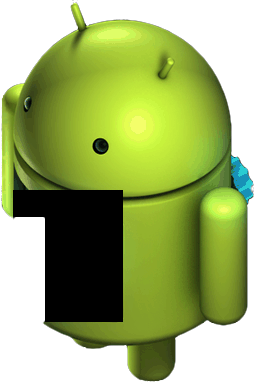
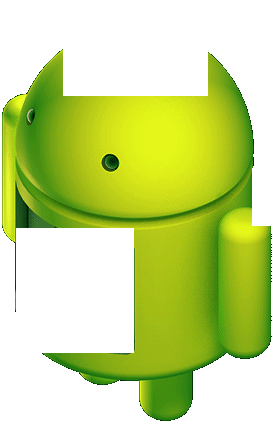
Add Andy's ear wiggle to recovery
This brings Andy's ear wiggle from aosp recovery
and adds more transparency to let the background
show through.

Patchset 1) Initial commit
Patchset 2) fix rounding issue that lead to
            one pixel offset issue

diff --git a/ui.c b/ui.c
@@ -556,9 +556,9 @@ void ui_init(void)
         // base image on the screen.
         if (gBackgroundIcon[BACKGROUND_ICON_INSTALLING] != NULL) {
             gr_surface bg = gBackgroundIcon[BACKGROUND_ICON_INSTALLING];
-            ui_parameters.install_overlay_offset_x +=
+            ui_parameters.install_overlay_offset_x =
                 (gr_fb_width() - gr_get_width(bg)) / 2;
-            ui_parameters.install_overlay_offset_y +=
+            ui_parameters.install_overlay_offset_y =
                 (gr_fb_height() - gr_get_height(bg)) / 2;
         }
     } else {
